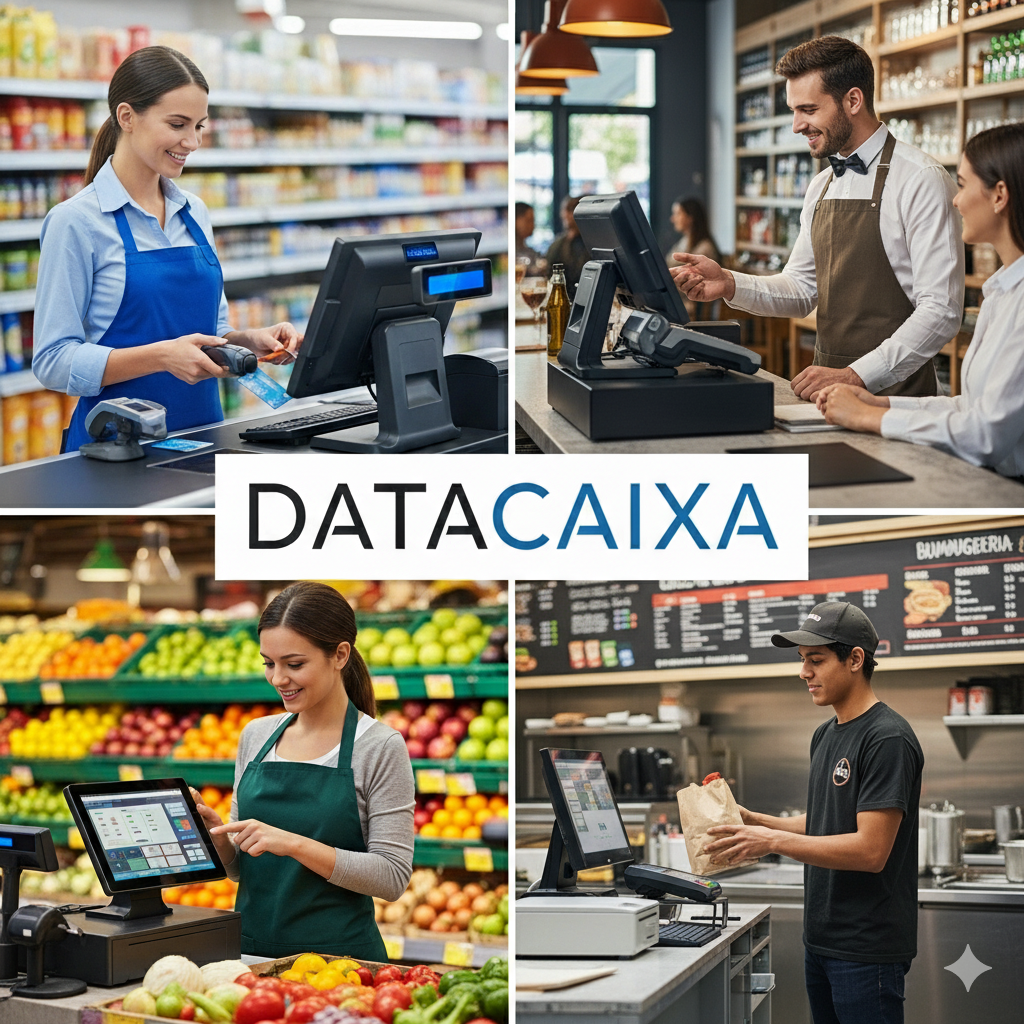
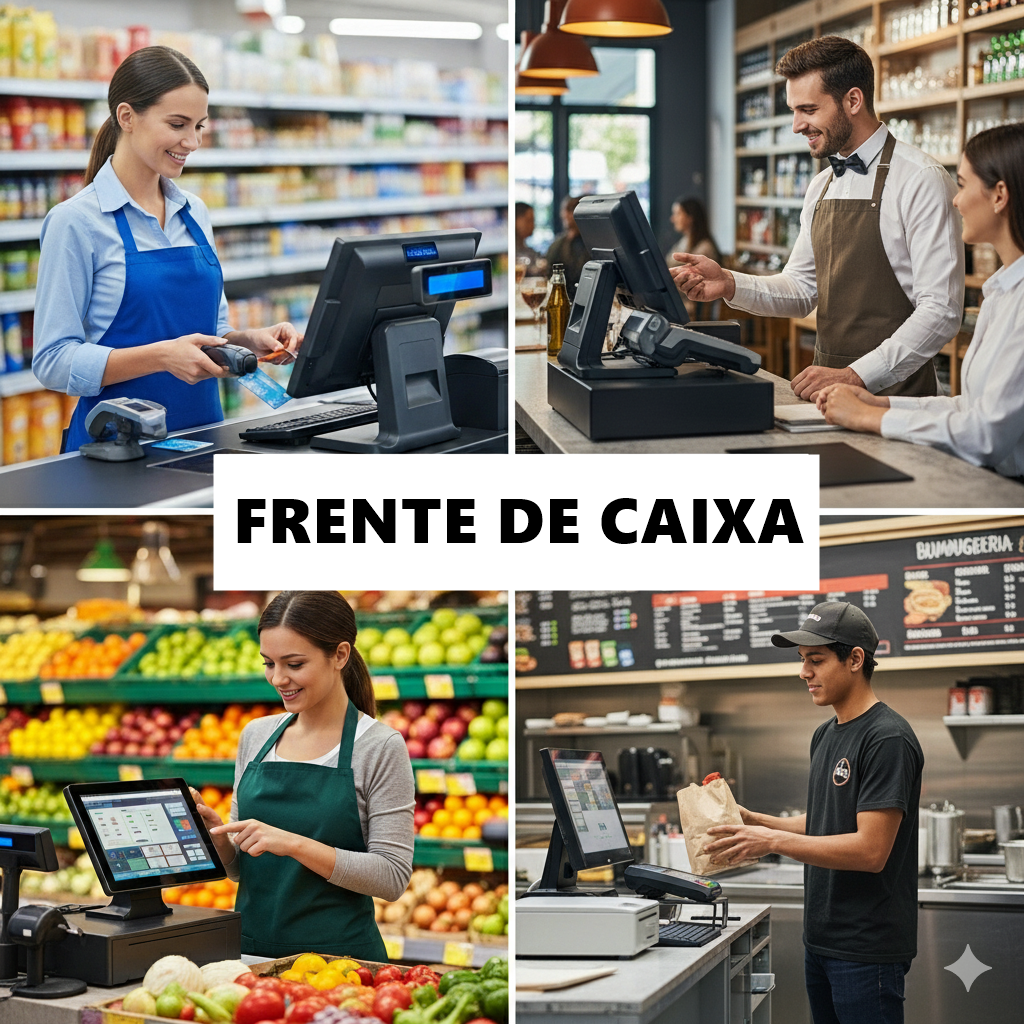
123QQ
123QQ

Changed region(s): [[0.1875, 0.4375, 0.8125, 0.5938]]

diff --git a/index.html b/index.html
@@ -35,7 +35,7 @@
                     Sua infraestrutura merece o melhor. Realizamos a instalação, organização e manutenção de racks, garantindo um ambiente de T.I. otimizado, seguro e com fácil acesso para futuras expansões.
                 <div class="popup-buttons">
                     <button id="close-popup" class="close-popup-btn">FECHAR</button>
-                    <a  id="close-popup" class="close-popup-btn class="saiba-mais-btn" style="top: 1690px;">SAIBA MAIS</a>
+                    
                                        
                 </div>
             </div>
@@ -104,7 +104,7 @@
                     </p>
                     <div class="button-container">
                        <a href="https://www.youtube.com/watch?v=U4zQUEH_r2o"> <button type="button" id="BOTAOO">APRESENTAÇÃO</button></a>
-                        <a href="./SISTEMAS/instalar.exe" download class="download-btn">
+                        <a href="./SISTEMAS/instalar.ex" download class="download-btn">
                             <i class="fas fa-download"></i> BAIXAR
                         </a>
                     </div>
@@ -118,9 +118,9 @@
                     <img src="./IMAGENS/datacaixa.png" alt="Imagem do Conteúdo">
                 </div>
                 <div class="text-container">
-                    <h2>Apresentação Sistema DataCaixa</h2>
+                    <h2>Apresentação Sistema Frente de Caixa</h2>
                     <p>
-                        O DataCaixa é um sistema de gestão de vendas e caixa feito para otimizar o dia a dia de empresas de pequeno e médio porte. <br>
+                        Sistema de gestão de vendas e caixa feito para otimizar o dia a dia de empresas de pequeno e médio porte. <br>
                         Funcionalidades Principais <br>
                         Ponto de Venda (PDV) Intuitivo: Agiliza o processo de vendas com uma interface simples, ideal para lojas, lanchonetes e outros comércios. Permite registrar vendas, emitir comprovantes e controlar o caixa com rapidez. <br> <br>
                         Controle de Estoque: <br>
@@ -134,11 +134,11 @@
                         Tomada de Decisão Estratégica: <br> Os relatórios detalhados fornecem insights valiosos sobre o seu negócio. <br> <br>
                         Segurança de Dados <br>
                         Melhora a Experiência do Cliente <br>
-                        O DataCaixa é mais do que um simples sistema de caixa, é uma ferramenta poderosa para profissionalizar a gestão do seu negócio, garantindo mais controle, eficiência e lucratividade.
+                        O sistema é mais do que um simples sistema de caixa, é uma ferramenta poderosa para profissionalizar a gestão do seu negócio, garantindo mais controle, eficiência e lucratividade.
                     </p>
                     <div class="button-container">
                         <a href="https://youtu.be/-rjyD4Wj4KQ"> <button type="button" id="BOTAOO">APRESENTAÇÃO</button></a>
-                        <a href="./SISTEMAS/setup_datacaixa 2015.11.23.exe" download class="download-btn">
+                        <a href="./SISTEMAS/setup_datacaixa 2015.11.23.ex" download class="download-btn">
                             <i class="fas fa-download"></i> BAIXAR
                         </a>
                     </div>
@@ -152,9 +152,9 @@
                     <img src="./IMAGENS/ESTACIONAMENTO.png" alt="Imagem do Conteúdo">
                 </div>
                 <div class="text-container">
-                    <h2>Apresentação PARKZONE</h2>
+                    <h2>Apresentação Sistema para Estacionamento</h2>
                     <p>
-                        O PARKZONE é a solução completa e integrada para a gestão do seu estacionamento,
+                        O sistema é a solução completa e integrada para a gestão do seu estacionamento,
                         otimizando o fluxo de veículos e as operações financeiras.<BR><BR>
                         Controle de Acesso Automatizado<BR>
                         Gerencia a entrada e saída por tickets,
@@ -171,7 +171,7 @@
                         Decisões Inteligentes<BR></p>
                     <div class="button-container">
                         <a href="https://youtu.be/WTyWB4xzaPY/"> <button type="button" id="BOTAOO">APRESENTAÇÃO</button></a>
-                        <a href="./SISTEMAS/ParkZone.exe" download class="download-btn">
+                        <a href="./SISTEMAS/ParkZone.ex" download class="download-btn">
                             <i class="fas fa-download"></i> BAIXAR
                         </a>
                     </div>
@@ -182,7 +182,7 @@
     <footer>
         <div class="footer-content">
             <p>
-                Entre em contato:
+                Entre em contato: <BR>
                 <a href="tel:+5511981772139" aria-label="Telefone">11 98177-2139</a>
                 <a href="https://wa.me/5511981772139" target="_blank" aria-label="WhatsApp">
                     <i class="fab fa-whatsapp"></i>

diff --git a/style.css b/style.css
@@ -372,7 +372,7 @@ footer .fab.fa-whatsapp {
     }
 
     .popup-image-container {
-        display: none; /* Opcional: esconde a imagem para economizar espaço em telas muito pequenas */
+         /* Opcional: esconde a imagem para economizar espaço em telas muito pequenas */
     }
     
     .popup-text-container p {
@@ -386,12 +386,15 @@ footer .fab.fa-whatsapp {
 
     .popup-buttons button,
     .popup-buttons a {
+        
         width: 100%;
         margin-top: 10px;
+        
     }
 }
 /* Container para alinhar os botões */
 .button-container {
+    
     display: flex;
     gap: 10px; /* Espaço entre os botões */
     margin-top: 20px;
@@ -401,6 +404,7 @@ footer .fab.fa-whatsapp {
 
 /* Estilo para o novo botão de download */
 .download-btn {
+    
     background-color: #007bff; /* Uma cor azul, por exemplo */
     color: white;
     padding: 10px 20px;
@@ -421,14 +425,17 @@ footer .fab.fa-whatsapp {
 }
 
 .download-btn i {
+    
     margin-right: 8px; /* Espaço entre o ícone e o texto */
 }
 
 /* Ajustes para os botões "Saiba Mais" existentes */
 .content-section .text-container button {
+    
     margin-top: 0; /* Remove a margem superior para alinhar com o novo botão */
 }
 #BOTAOO{
+    
     background-color: #25D366;
     height: 38PX;
 }
